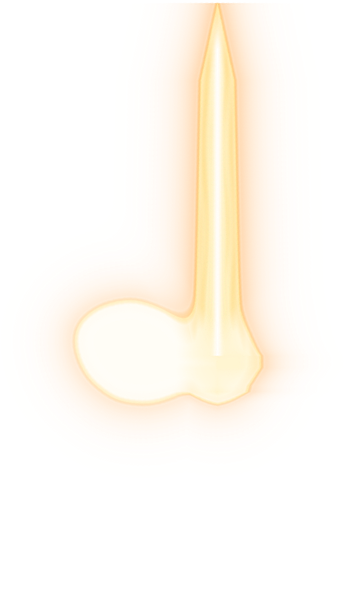
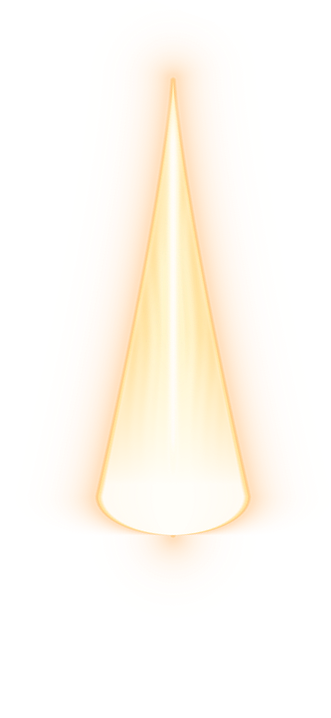
vfx-lab: Thần Thức Trảm — lưỡi kiếm năng lượng tam giác ôm nắm đấm, nối dài đúng trục cẳng tay (khuỷu → nắm đấm), xoay quanh khuỷu
Claude-Session: https://claude.ai/code/session_014A94BHnyL4tu48AS77QbVM

Changed region(s): [[0.1813, 0.0, 0.8157, 0.7438], [0.4532, 0.7438, 0.6042, 0.7736]]

diff --git a/src/vfxlab/main.ts b/src/vfxlab/main.ts
@@ -39,8 +39,8 @@ class LabScene extends Phaser.Scene {
     for (const [key, f] of [[SHOCK_T3, 'shock_t3'], [SHOCK_T6, 'shock_t6']]) this.load.spritesheet(key, `/vfx/${f}.png?v=1`, { frameWidth: 256, frameHeight: 159 });
     for (const [n, key] of Object.entries(DRAGON_TEX)) for (const sf of ['', '_aw']) this.load.image(key + sf, `/vfx/dragon_${n}${sf}.png?v=4`);
     this.load.image(ORB_BOLT, '/vfx/orb_bolt.png?v=1');
-    this.load.image(QI_ARM, '/vfx/qi_arm.png?v=4');
-    this.load.image(QI_AURA, '/vfx/qi_aura.png?v=3');
+    this.load.image(QI_ARM, '/vfx/qi_arm.png?v=5');
+    this.load.image(QI_AURA, '/vfx/qi_aura.png?v=4');
     this.load.spritesheet(SPIRIT_ORB, '/vfx/spirit_orb.png?v=1', { frameWidth: 96, frameHeight: 96 });
     for (const [n, key] of Object.entries(BURN_TEX)) this.load.spritesheet(key, `/vfx/burn_${n}.png?v=2`, { frameWidth: 256, frameHeight: 201 });
     for (const [n, key] of Object.entries(BURN_TEX)) this.load.spritesheet(key + '_blue', `/vfx/burn_${n}_blue.png?v=1`, { frameWidth: 256, frameHeight: 201 });

diff --git a/tools/art/qi_arm.py b/tools/art/qi_arm.py
@@ -1,13 +1,15 @@
 """
-THẦN THỨC TRẢM (mới) — cánh tay khí vàng cầm kiếm, lấy từ ảnh mẫu tools/art/ref/phap_tuong_arms.png
-(pháp tướng nhiều tay, nắm đấm vàng có vòng xuyến).
+THẦN THỨC TRẢM — cánh tay khí vàng (từ ảnh mẫu tools/art/ref/phap_tuong_arms.png: pháp tướng nhiều tay, nắm đấm vàng
+có vòng xuyến) + LƯỠI KIẾM NĂNG LƯỢNG bọc nắm tay, nối dài theo TRỤC CẲNG TAY (khuỷu → cổ tay → nắm đấm → mũi kiếm).
 
-  1) cắt cánh tay trên-phải (nắm đấm + vòng xuyến + cẳng tay) bằng đường viền tay vẽ theo ảnh mẫu (không tách bằng màu
-     được vì quầng đỏ cam quanh tay trùng màu phần tối của tay)
-  2) giữ nguyên nét vẽ trong tay, cẳng tay mờ dần về phía khuỷu (tay khí hiện ra từ hư không)
-  3) quầng sáng vàng mềm quanh tay (thay quầng đỏ của nền mẫu)
-  4) LUỒNG KIẾM KHÍ bọc nắm tay rồi vuốt nhọn lên trên thành lưỡi — ảnh riêng, cùng khung để game chồng khít + chớp nháy
-  → public/vfx/qi_arm.png, qi_aura.png      (dựng đứng: mũi ở trên, khuỷu ở dưới; điểm xoay = cổ tay)
+  1) cắt cánh tay trên-phải (nắm đấm + vòng xuyến + cẳng tay) bằng đường viền tay vẽ theo ảnh mẫu; phần dưới khuỷu
+     (cánh tay trên) mờ dần → tay khí hiện ra từ hư không
+  2) quầng sáng vàng mềm quanh tay (thay quầng đỏ của nền mẫu)
+  3) lưỡi kiếm năng lượng: hình tam giác dài, CHÂN bo tròn ôm trọn nắm đấm, hai mép hơi lõm vuốt về một mũi nhọn nằm
+     trên trục cẳng tay (theo phác thảo của bạn). Dựng bằng hàm khoảng cách → mép sắc, cân đối.
+     Lớp vẽ: quầng ngoài · thân vàng (trong suốt dần về phía nắm tay để thấy tay) · viền sáng mảnh · sống kiếm trắng
+  4) xoay cả hình cho trục cẳng tay DỰNG ĐỨNG; điểm xoay khi chém = khuỷu tay
+  → public/vfx/qi_arm.png, qi_aura.png  (cùng khung để game chồng khít; lớp khí chớp nháy riêng)
 
   python3 -I tools/art/qi_arm.py
 """
@@ -20,18 +22,18 @@ HERE = os.path.dirname(os.path.abspath(__file__))
 ROOT = os.path.dirname(os.path.dirname(HERE))
 VFX = os.path.join(ROOT, 'public', 'vfx')
 OUT = os.path.join(HERE, 'out')
-UP = 3                                   # phóng ảnh mẫu (ảnh gốc nhỏ) — tay trong game cao ~70px
+UP = 3                                   # phóng ảnh mẫu (ảnh gốc nhỏ)
 
-# đường viền cánh tay trong khung cắt (x 200..295, y 45..180 của ảnh mẫu), theo chiều kim đồng hồ từ đỉnh nắm đấm
+# toạ độ trong khung cắt (x 200..295, y 45..180 của ảnh mẫu)
 CROP = (200, 45, 295, 180)
 ARM = [(22, 21), (30, 17), (40, 17), (50, 23), (55, 32), (57, 37), (66, 38), (76, 40), (80, 46), (77, 54),
        (72, 60), (73, 70), (74, 82), (72, 95), (68, 106), (61, 116), (50, 121), (38, 120), (28, 115),
        (29, 104), (37, 92), (44, 80), (44, 70), (36, 66), (33, 58), (36, 51), (32, 44), (25, 36), (21, 28)]
-FIST = [(22, 21), (30, 17), (40, 17), (50, 23), (55, 32), (57, 38), (52, 45), (40, 47), (30, 44), (23, 36), (21, 28)]  # nắm đấm
-FORE_A, FORE_B = (54, 94), (58.5, 70)    # đường giữa cẳng tay (đo từ mặt nạ tay) → trục lưỡi kiếm
-BLADE_Y = 38                              # chân lưỡi: ngang mép trên vòng xuyến
-FIST_TOP = (36, 19)                      # chỗ lưỡi kiếm nhô ra khỏi nắm tay
-FIST_BOT = (40, 44)                      # chuôi kiếm phía dưới nắm tay (bị tay che)
+ELBOW = (75, 102)                        # khuỷu tay
+FIST_C = (53.6, 41.4)                    # tâm nắm đấm — trục cẳng tay: khuỷu → tâm nắm đấm
+TIP = (8.8, -89.8)                       # mũi lưỡi kiếm (trên trục kéo dài)
+BASE_W = 25                              # nửa bề rộng chân lưỡi (ôm nắm đấm)
+BASE_R = 13                              # bán kính bo chân lưỡi phía dưới tâm nắm đấm
 
 
 def main():
@@ -44,23 +46,27 @@ def main():
     m = m.filter(ImageFilter.GaussianBlur(1.2))
     arm = np.array(big).astype(float)
     a = np.array(m).astype(float) / 255
-    # cẳng tay mờ dần về khuỷu (tay khí từ hư không)
-    yy = np.arange(big.height)[:, None] / UP
-    a *= np.clip((112 - yy) / 42, 0, 1) ** 1.2
+    # trục cẳng tay (hướng lên mũi)
+    ux, uy = FIST_C[0] - ELBOW[0], FIST_C[1] - ELBOW[1]
+    ul = np.hypot(ux, uy); ux, uy = ux / ul, uy / ul
+    nx, ny = -uy, ux
+    # phần dưới khuỷu (cánh tay trên) mờ dần
+    yy, xx = np.mgrid[0:big.height, 0:big.width].astype(float) / UP
+    te = (xx - ELBOW[0]) * ux + (yy - ELBOW[1]) * uy
+    a *= np.clip((te + 2) / 16, 0, 1) ** 1.2
     # đẩy màu về vàng khí: sáng hơn, ấm, giữ nét
     lum = arm.mean(2, keepdims=True) / 255
     gold = np.array([255, 205, 110]) * (0.55 + 0.6 * lum) + np.array([60, 50, 30]) * lum ** 3
     arm = np.clip(arm * 0.45 + gold * 0.55, 0, 255)
 
-    # khung lớn: thêm chỗ cho luồng kiếm khí phía trên
-    SW = 120 * UP                                                            # chiều dài luồng kiếm khí trên nắm tay
-    PAD = 26 * UP
-    CW, CH = w * UP + 2 * PAD, h * UP + SW + PAD
-    ox, oy = PAD, SW
+    # khung lớn: thêm chỗ cho lưỡi kiếm phía trên-trái
+    PT, PL, PAD = 112 * UP, 30 * UP, 20 * UP
+    CW, CH = w * UP + PL + PAD, h * UP + PT + PAD
+    ox, oy = PL, PT
+    C = lambda x, y: (ox + x * UP, oy + y * UP)
     # --- tay + quầng vàng mềm
     canvas = Image.new('RGBA', (CW, CH), (0, 0, 0, 0))
-    armI = Image.fromarray(np.dstack([arm, a * 255]).astype(np.uint8), 'RGBA')
-    canvas.alpha_composite(armI, (ox, oy))
+    canvas.alpha_composite(Image.fromarray(np.dstack([arm, a * 255]).astype(np.uint8), 'RGBA'), (ox, oy))
     al = np.array(canvas)[..., 3].astype(float)
     glow = np.array(Image.fromarray(al.astype(np.uint8)).filter(ImageFilter.GaussianBlur(5 * UP))).astype(float)
     g = np.zeros((CH, CW, 4))
@@ -69,82 +75,60 @@ def main():
     armF = Image.fromarray(g.astype(np.uint8), 'RGBA')
     armF.alpha_composite(canvas)
 
-    # --- LƯỠI KIẾM NĂNG LƯỢNG nối dài THEO TRỤC CẲNG TAY (dựng bằng hàm khoảng cách → mép sắc, cân đối):
-    #     trục = đường giữa cẳng tay đo từ ảnh mẫu, kéo thẳng qua cổ tay lên thành lưỡi kiếm (hai mép song song, vát nhọn
-    #     22% cuối, loe sáng ở chân). Vỏ năng lượng ôm nắm đấm + cổ tay, hợp mượt vào chân lưỡi.
-    #     Lớp vẽ: quầng ngoài · thân vàng · viền sáng mảnh · sống kiếm trắng · vân khí chạy dọc.
-    #     Cuối cùng xoay cả ảnh cho trục cẳng tay DỰNG ĐỨNG (game xoay quanh cổ tay nằm trên trục).
+    # --- LƯỠI KIẾM NĂNG LƯỢNG theo trục cẳng tay
     SS = 3                                                                   # siêu mẫu chống răng cưa
-    Hh, Ww = CH * SS, CW * SS
-    Y, X = np.mgrid[0:Hh, 0:Ww].astype(float) / SS
-    C = lambda x, y: (ox + x * UP, oy + y * UP)
-    ax_, ay_ = C(*FORE_A); bx_, by_ = C(*FORE_B)
-    ux, uy = bx_ - ax_, by_ - ay_
-    ul = np.hypot(ux, uy); ux, uy = ux / ul, uy / ul                         # hướng trục (lên trên)
-    nx, ny = -uy, ux
-    t0 = ((C(0, BLADE_Y)[1] - by_) / uy)                                    # chân lưỡi: điểm trên trục ngang mép trên vòng xuyến
-    px0, py0 = bx_ + ux * t0, by_ + uy * t0
-    u = (X - px0) * ux + (Y - py0) * uy                                      # dọc trục, + lên mũi
-    v = (X - px0) * nx + (Y - py0) * ny                                      # ngang trục
-    L = SW * 0.98                                                            # chiều dài lưỡi
-    W = 7.5 * UP                                                             # nửa bề rộng lưỡi ở chân
-    taper = W * (1 - 0.25 * np.clip(u / (L * 0.78), 0, 1))                  # thon nhẹ dần lên
-    hw = np.where(u < L * 0.78, taper, W * 0.75 * np.clip((L - u) / (L * 0.22), 0, 1))  # vát nhọn mũi
-    hw = hw + 6 * UP * np.exp(-np.maximum(u, 0) / (6 * UP)) * np.clip((u + 10 * UP) / (6 * UP), 0, 1)  # loe sáng ở chân lưỡi
-    dB = np.where(u < L, np.abs(v) - hw, 1e4) + np.maximum(-12 * UP - u, 0) * 3   # chân lưỡi chìm dần vào vỏ
-    # vỏ ôm theo ĐÚNG hình nắm đấm + đoạn cổ tay (khoảng cách tới mặt nạ, nở ra 4px) — không phải hình tròn
-    fmask = Image.new('L', (CW * SS, CH * SS), 0)
-    dr = ImageDraw.Draw(fmask)
-    dr.polygon([(C(x, y)[0] * SS, C(x, y)[1] * SS) for x, y in FIST], fill=255)
-    wr = 7 * UP * SS                                                         # cổ tay: đoạn trục từ vòng xuyến tới chân lưỡi
-    for tt_ in np.linspace(-6 * UP, 0, 8):
-        cx_, cy_ = (px0 + ux * tt_) * SS, (py0 + uy * tt_) * SS
-        dr.ellipse([cx_ - wr, cy_ - wr, cx_ + wr, cy_ + wr], fill=255)
-    fm = ndimage.gaussian_filter(np.array(fmask).astype(float), 3 * UP * SS) > 127   # bo tròn góc
-    dE = (ndimage.distance_transform_edt(~fm) - ndimage.distance_transform_edt(fm)) / SS - 3 * UP
-    k = 10 * UP                                                              # hợp mượt 2 hình
-    hh = np.clip(0.5 + 0.5 * (dE - dB) / k, 0, 1)
-    d = dE * (1 - hh) + dB * hh - k * hh * (1 - hh)
+    Y, X = np.mgrid[0:CH * SS, 0:CW * SS].astype(float) / SS
+    fcx, fcy = C(*FIST_C)
+    u = (X - fcx) * ux + (Y - fcy) * uy                                      # dọc trục từ tâm nắm đấm, + lên mũi
+    v = (X - fcx) * nx + (Y - fcy) * ny                                      # ngang trục
+    L = np.hypot(TIP[0] - FIST_C[0], TIP[1] - FIST_C[1]) * UP                # tâm nắm đấm → mũi
+    Wb, Rb = BASE_W * UP, BASE_R * UP
+    up = np.clip(u / L, 0, 1)
+    hw = np.where(u >= 0, Wb * (1 - up) ** 1.25,                             # hai mép hơi lõm vuốt về mũi
+                  Wb * np.sqrt(np.clip(1 - (u / Rb) ** 2, 0, 1)))           # chân bo tròn ôm nắm đấm
+    d = np.where(u <= L, np.abs(v) - hw, np.hypot(v, u - L))
+    d = np.where(u < -Rb, np.hypot(v, u + Rb) + Wb * 0, d)
+    d = np.maximum(d, -Wb * 2)
     aa = 0.9
     fill = np.clip(0.5 - d / aa, 0, 1)                                       # bên trong (mép sắc)
     rim = np.exp(-(d / (1.1 * UP)) ** 2)                                     # viền sáng mảnh
     glowO = np.exp(-np.maximum(d, 0) / (6 * UP)) * (d > 0)                   # quầng ngoài
-    inner = np.clip(-d / W, 0, 1)                                            # sâu vào trong thân lưỡi
-    onBlade = (u > 0) & (dB < dE)
-    core = np.exp(-(v / (1.4 * UP)) ** 2) * onBlade * np.clip((L * 0.97 - u) / (L * 0.1), 0, 1)
-    vein = (0.5 + 0.5 * np.sin(v / (1.6 * UP) * np.pi + np.sin(u / (9 * UP)) * 1.5)) * onBlade * 0.25
-    inFist = ndimage.gaussian_filter(fm.astype(float), 3 * UP * SS) * np.clip((4 * UP - u) / (10 * UP), 0, 1)
-    bodyA = fill * (0.7 + 0.3 * inner) * (0.12 + 0.88 * hh ** 1.5)        # lưỡi đặc; vỏ quanh nắm tay gần trong suốt (chỉ viền sáng)
-    A = np.clip(np.maximum.reduce([bodyA, rim * (0.55 + 0.4 * hh), glowO * (0.25 + 0.2 * hh), core]), 0, 1)
-    c_out = np.array([255, 150, 40.]); c_body = np.array([255, 205, 90.]); c_hot = np.array([255, 242, 190.])
-    tt = np.clip(inner * 1.6 + vein, 0, 1)[..., None]
-    col = c_body * (1 - tt) + c_hot * tt * 0.9 + c_body * tt * 0.1
+    inner = np.clip(-d / np.maximum(hw, 1e-3), 0, 1)                         # 0 ở mép → 1 ở sống kiếm
+    # thân lưỡi đặc dần từ nắm tay lên (nắm tay nằm trong lưỡi vẫn nhìn rõ)
+    solid = np.clip((u - 4 * UP) / (50 * UP), 0, 1) ** 0.8
+    bodyA = fill * (0.1 + 0.75 * solid) * (0.75 + 0.25 * inner)
+    core = np.exp(-(v / (1.5 * UP)) ** 2) * np.clip((u - 4 * UP) / (14 * UP), 0, 1) * np.clip((L * 0.97 - u) / (L * 0.12), 0, 1)
+    vein = (0.5 + 0.5 * np.sin(v / (2.2 * UP) * np.pi + np.sin(u / (11 * UP)) * 1.5)) * 0.22 * solid
+    A = np.clip(np.maximum.reduce([bodyA, rim * 0.95, glowO * 0.4, core]), 0, 1)
+    c_out = np.array([255, 150, 40.]); c_body = np.array([255, 200, 85.]); c_hot = np.array([255, 242, 190.])
+    tt = np.clip(inner * 1.3 + vein, 0, 1)[..., None]
+    col = c_body * (1 - tt) + c_hot * tt
     col = np.where((d > 0)[..., None], c_out, col)
     col = col * (1 - rim[..., None] * 0.6) + c_hot * rim[..., None] * 0.6
     col = col * (1 - core[..., None]) + np.array([255, 255, 250.]) * core[..., None]
-    big = Image.fromarray(np.dstack([np.clip(col, 0, 255), A * 255]).astype(np.uint8), 'RGBA')
-    auraI = big.resize((CW, CH), Image.LANCZOS)
+    auraI = Image.fromarray(np.dstack([np.clip(col, 0, 255), A * 255]).astype(np.uint8), 'RGBA').resize((CW, CH), Image.LANCZOS)
 
-    # xoay cho trục cẳng tay dựng đứng
+    # đánh dấu khuỷu + mũi bằng 2 điểm phụ (để đo lại sau khi xoay), rồi xoay cho trục dựng đứng
+    mk = Image.new('L', (CW, CH), 0)
+    md = ImageDraw.Draw(mk)
+    for (px, py), val in ((C(*ELBOW), 255), (C(*TIP), 128)):
+        md.ellipse([px - 3, py - 3, px + 3, py + 3], fill=val)
     ang = np.degrees(np.arctan2(ux, -uy))                                    # độ nghiêng trục so với phương đứng
     armF = armF.rotate(ang, resample=Image.BICUBIC, expand=True)
     auraI = auraI.rotate(ang, resample=Image.BICUBIC, expand=True)
+    mk = np.array(mk.rotate(ang, resample=Image.NEAREST, expand=True))
     bb = armF.getbbox()
     b2 = auraI.getbbox()
     bb = (min(bb[0], b2[0]), min(bb[1], b2[1]), max(bb[2], b2[2]), max(bb[3], b2[3]))
     armF, auraI = armF.crop(bb), auraI.crop(bb)
+    mk = mk[bb[1]:bb[3], bb[0]:bb[2]]
+    ey, ex = [c.mean() for c in np.nonzero(mk == 255)]
+    ty, tx = [c.mean() for c in np.nonzero(mk == 128)]
     armF.save(os.path.join(VFX, 'qi_arm.png'))
     auraI.save(os.path.join(VFX, 'qi_aura.png'))
-    # đo lại trên ảnh đã xoay: trục = cột sống kiếm sáng nhất; mũi = hàng trên cùng có lưỡi; cổ tay cách mũi (L + t0)
-    au = np.array(auraI).astype(float)
-    lum = au[..., :3].mean(2) * au[..., 3] / 255
-    rows = slice(int(au.shape[0] * 0.1), int(au.shape[0] * 0.3))
-    axx = float(np.argmax(lum[rows].sum(0)))
-    col = au[:, int(axx), 3]
-    tipy = float(np.nonzero(col > 60)[0].min())
-    wy = tipy + (L + t0)
-    print('qi_arm', armF.size, 'tilt', round(ang, 1), 'pivot', round(axx / armF.width, 3), round(wy / armF.height, 3),
-          'reach', round(L + t0))
+    print('qi_arm', armF.size, 'tilt', round(ang, 1), 'pivot(khuỷu)', round(ex / armF.width, 3), round(ey / armF.height, 3),
+          'mũi', round(tx, 1), round(ty, 1), 'reach', round(ey - ty))
+
     ca = np.array(armF).astype(float); cb = np.array(auraI).astype(float)
     bg = np.full(ca.shape[:2] + (3,), (26, 24, 40.))
     m1 = bg * (1 - ca[..., 3:] / 255) + ca[..., :3] * ca[..., 3:] / 255
@@ -155,6 +139,14 @@ def main():
     pv.alpha_composite(auraI, (comb.width + 20, 10))
     pv.alpha_composite(comb, (comb.width * 2 + 30, 10))
     pv.save(os.path.join(OUT, 'qi_arm_preview.png'))
+    # ảnh kiểm tra trục trên ảnh mẫu (chưa xoay)
+    chk = Image.open(os.path.join(HERE, 'ref', 'phap_tuong_arms.png')).convert('RGB').resize((332 * 3, 328 * 3), Image.LANCZOS)
+    dc = ImageDraw.Draw(chk)
+    P = lambda x, y: ((x + CROP[0]) * 3, (y + CROP[1]) * 3)
+    dc.line([P(*ELBOW), P(*TIP)], fill=(0, 255, 120), width=3)
+    for p in (ELBOW, FIST_C, TIP):
+        x, y = P(*p); dc.ellipse([x - 6, y - 6, x + 6, y + 6], fill=(255, 40, 40))
+    chk.crop((450, 0, 950, 600)).save(os.path.join(OUT, 'qi_axis_check.png'))
 
 
 if __name__ == '__main__':
